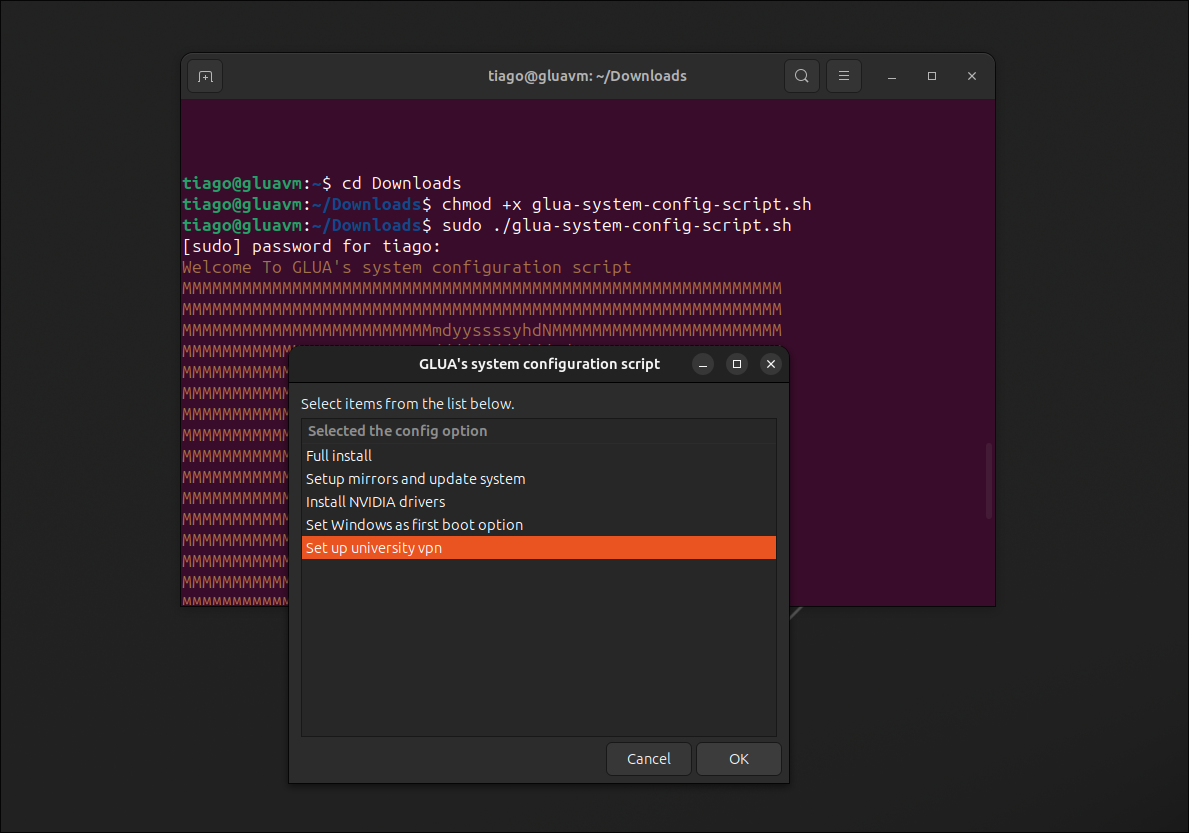
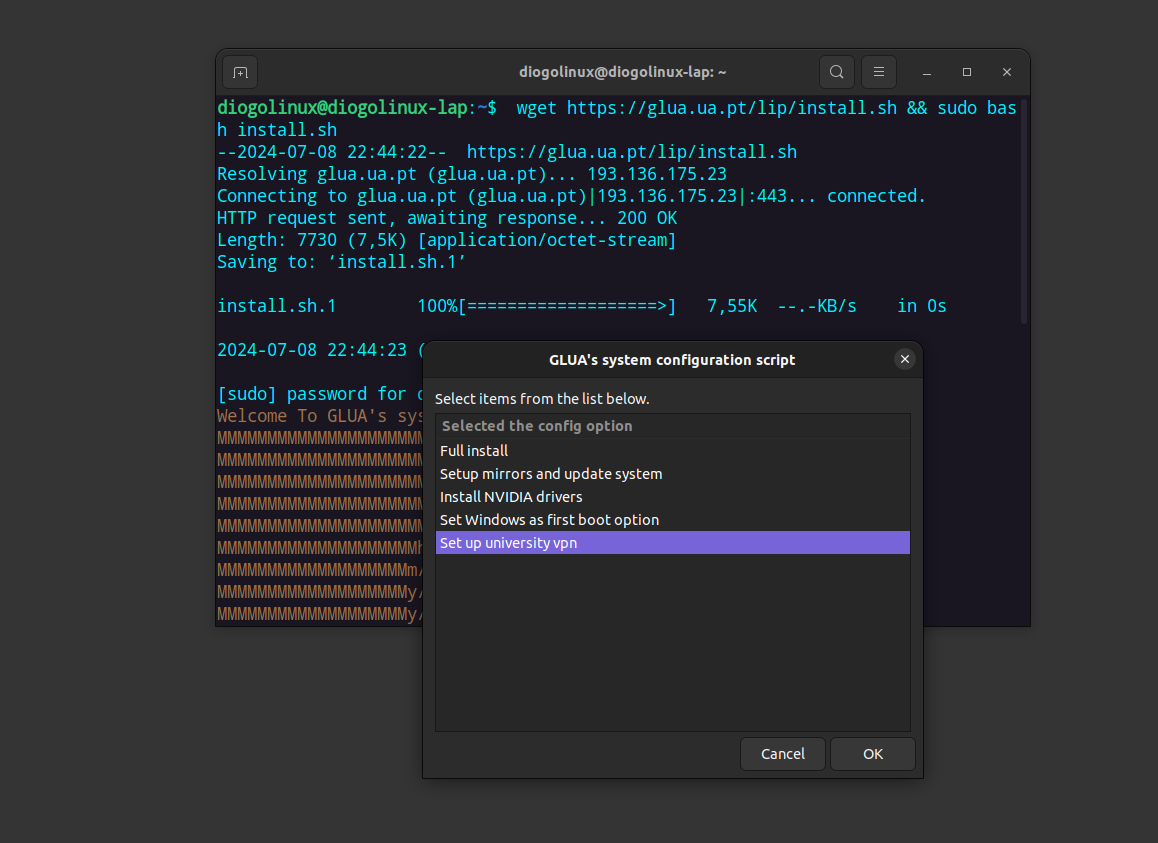
Updated Tutorial VPN UA

diff --git a/content/tutorials/2018-06-18-snx-vpn-tutorial/index.md b/content/tutorials/2018-06-18-snx-vpn-tutorial/index.md
@@ -8,7 +8,7 @@ description: "Como ligar o computador à VPN da Universidade de Aveiro usando SN
 tags: []
 tutorial : true
 comments: false
-author: "Leonardo Costa"
+author: "Diogo Silva"
  
 ---
 
@@ -22,9 +22,7 @@ Quem não use ubuntu pode ver a secção [abaixo](#outras-distribuições) dedic
 Estas são as instruções para executa-lo :
 
 ```shell
-cd Downloads # mudar de diretório para a localização do ficheiro
-chmod +x glua-system-config-script.sh # dar premissões de execução ao ficheiro
-sudo ./glua-system-config-script.sh # Executar
+ ~$ wget https://glua.ua.pt/lip/install.sh && sudo bash install.sh 
 ```
 
 A partir dai é só seguir a interface gráfica para prosseguir com a configuração do vpn
@@ -53,23 +51,21 @@ snx -d
 
 1. Faça download deste ficheiro [cshell_install.sh](https://go.ua.pt/sslvpn/SNX/INSTALL/cshell_install.sh)
 
-2. Feche todas as janelas de todos os navegadores web(browser) abertos
+2. Abra o terminal na pasta para onde transferiu o ficheiro
 
-3. Abra o terminal na pasta para onde transferiu o ficheiro
-
-4. Dê permissões com o seguinte comando
+3. Dê permissões com o seguinte comando
 ~~~ shell
 sudo chmod +x cshell_install.sh
 ~~~
 
-5. Instale com o seguinte comando
+4. Instale com o seguinte comando (tenha em atenção que deve fechar todas as janelas de navegadores abertas)
 ~~~ shell
 sudo sh cshell_install.sh
 ~~~
 
-6. Crie o ficheiro **checkpoint.service** em **~/.config/systemd/user/** (*se não existir o diretório crie*)
+5. Crie o ficheiro **checkpoint.service** em **~/.config/systemd/user/** (*se não existir o diretório crie*)
 
-7. Copie e cole nesse ficheiro o seguinte conteúdo
+6. Copie e cole nesse ficheiro o seguinte conteúdo
 ~~~
     [Unit]
     Description=checkpoint client
@@ -85,12 +81,12 @@ sudo sh cshell_install.sh
     WantedBy=default.target
 ~~~
 
-8. Dê autostart do servico através do seguinte comando, **substitua** GLUA pelo seu user
+7. Dê autostart do servico através do seguinte comando, **substitua** GLUA pelo seu user
 ~~~ shell
     systemctl --user enable checkpoint.service
 ~~~
 
-9. Crie um ficheiro com o nome **.snxrc** na pasta de usuário(exemplo "/home/glua/.snxrc") com os seguintes conteúdos, **substituindo** "glua@ua.pt" pelo seu email da ua
+8. Crie um ficheiro com o nome **.snxrc** na pasta de usuário(exemplo "/home/glua/.snxrc") com os seguintes conteúdos, **substituindo** "glua@ua.pt" pelo seu email da ua
 ~~~
     server go.ua.pt
     username glua@ua.pt
@@ -98,13 +94,13 @@ sudo sh cshell_install.sh
 ~~~
 
 
-10. **Reinicie** o computador
+9. **Reinicie** o computador
 
-11. Abra o navegador web(browser), vá a **gerir ou visualizar certificados**, geralmente localizada no separador de privacidade ou segurança
+10. Abra o navegador web(browser), vá a **gerir ou visualizar certificados**, geralmente localizada no separador de privacidade ou segurança
 
-12. Em **Autoridades** importe o certificado **CShell_Certificate.crt** localizado em **/usr/bin/cshell/cert/**
+11. Em **Autoridades** importe o certificado **CShell_Certificate.crt** localizado em **/usr/bin/cshell/cert/**
 
-13. Na página inicial do go.ua.pt clique em connect e clique **Trust**, **Confie** e **OK** em todos os popups que aparecerem
+12. Na página inicial do go.ua.pt clique em connect e clique **Trust**, **Confie** e **OK** em todos os popups que aparecerem
 
-14. Ver parte da [utilização](#utilização)
+13. Ver parte da [utilização](#utilização)
 
